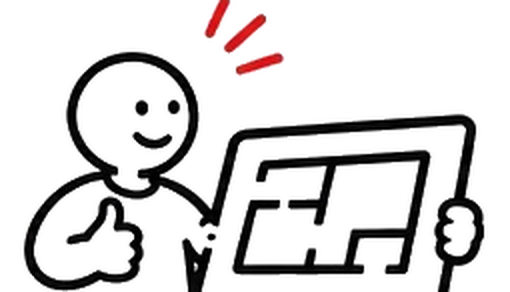
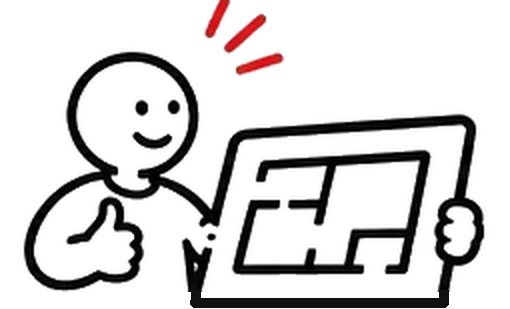
Draft: closed bottoms of figures, common baseline
Claude-Session: https://claude.ai/code/session_01EwRfVRwqpTJVtze869hkia

diff --git a/services/apartment-design/index.html b/services/apartment-design/index.html
@@ -55,9 +55,9 @@
   <div class="section-head"><p class="label"><span>Что вы получаете</span><span class="muted">Квартиры и апартаменты</span></p></div>
   <div class="grid">
     <h2 class="s-12">Идея, картинка или инструкция</h2>
-    <div class="s-4 gains pkg-card"><figure class="pkg-ill"><img src="../../assets/img/pkg/fig-idea.png" alt="" width="199" height="114" style="width:199px"></figure><h3 class="pkg-name">Идея</h3><p class="pkg-subt">Рисуем, как вы будете жить</p><p class="label pkg-meta">Простой · от 9,6 $/м² · от 1 до 2 недель</p><p class="pkg-count"><b>От 4 листов,</b><br>чтобы понять, как будет устроено ваше пространство</p><p class="pkg-tag">Минимальный набор</p><ul class="pkg-matrix"><li class="pkg-m"><img src="../../assets/img/pkg/i-plan.svg" alt="" width="34" height="34"><span>Планировка</span></li><li class="pkg-m"><img src="../../assets/img/pkg/i-ai.svg" alt="" width="34" height="34"><span>AI-эскиз</span></li><li class="pkg-m off"><img src="../../assets/img/pkg/i-3d.svg" alt="" width="34" height="34"><span>3D</span></li><li class="pkg-m off"><img src="../../assets/img/pkg/i-elev.svg" alt="" width="34" height="34"><span>Развёртки</span></li><li class="pkg-m off"><img src="../../assets/img/pkg/i-finish.svg" alt="" width="34" height="34"><span>Отделка</span></li><li class="pkg-m off"><img src="../../assets/img/pkg/i-elec.svg" alt="" width="34" height="34"><span>Электрика</span></li><li class="pkg-m off"><img src="../../assets/img/pkg/i-plumb.svg" alt="" width="34" height="34"><span>Сантехника</span></li><li class="pkg-m off"><img src="../../assets/img/pkg/i-furn.svg" alt="" width="34" height="34"><span>Подбор мебели</span></li></ul><ul class="pkg-list"><li>Обмерный план по вашим замерам или плану БТИ</li><li>До 2 вариантов планировочного решения с расстановкой мебели</li><li>AI-эскизы каждого помещения для поиска стиля и атмосферы</li><li>До 3 раундов правок</li></ul><p class="pkg-note muted">Подвинуть шкаф на полметра считается правкой, а не новой планировкой. Шкафы мы двигаем с удовольствием.</p><p class="pkg-btn"><a class="btn" href="../../index.html?pkg=Идея#brief" data-pkg="Идея">Выбрать «Идея» →</a></p></div>
-    <div class="s-4 gains pkg-card gains--featured" data-badge="Популярный"><figure class="pkg-ill"><img src="../../assets/img/pkg/fig-picture.png" alt="" width="231" height="110" style="width:231px"></figure><h3 class="pkg-name">Картинка</h3><p class="pkg-subt">Смотрим, как это будет выглядеть</p><p class="label pkg-meta">Базовый · от 14,7 $/м² · от 2 до 3 недель</p><p class="pkg-count"><b>От 15 листов,</b><br>чтобы увидеть будущий интерьер</p><p class="pkg-tag">Базовый комплект чертежей без инженерии</p><ul class="pkg-matrix"><li class="pkg-m"><img src="../../assets/img/pkg/i-plan.svg" alt="" width="34" height="34"><span>Планировка</span></li><li class="pkg-m"><img src="../../assets/img/pkg/i-ai.svg" alt="" width="34" height="34"><span>AI-эскиз</span></li><li class="pkg-m"><img src="../../assets/img/pkg/i-3d.svg" alt="" width="34" height="34"><span>3D</span></li><li class="pkg-m"><img src="../../assets/img/pkg/i-elev.svg" alt="" width="34" height="34"><span>Развёртки</span></li><li class="pkg-m off"><img src="../../assets/img/pkg/i-finish.svg" alt="" width="34" height="34"><span>Отделка</span></li><li class="pkg-m off"><img src="../../assets/img/pkg/i-elec.svg" alt="" width="34" height="34"><span>Электрика</span></li><li class="pkg-m off"><img src="../../assets/img/pkg/i-plumb.svg" alt="" width="34" height="34"><span>Сантехника</span></li><li class="pkg-m off"><img src="../../assets/img/pkg/i-furn.svg" alt="" width="34" height="34"><span>Подбор мебели</span></li></ul><ul class="pkg-list"><li>Всё, что входит в «Идею»</li><li>До 3 вариантов планировочного решения с расстановкой мебели</li><li>1 концепция интерьера</li><li>3D-визуализации всех помещений, по 2 ракурса на каждое</li><li>Развёртки стен без инженерных схем</li><li>До 3 раундов правок</li></ul><p class="pkg-btn"><a class="btn btn--signal" href="../../index.html?pkg=Картинка#brief" data-pkg="Картинка">Выбрать «Картинка» →</a></p></div>
-    <div class="s-4 gains pkg-card"><figure class="pkg-ill"><img src="../../assets/img/pkg/fig-instructions.png" alt="" width="303" height="109" style="width:303px"></figure><h3 class="pkg-name">Инструкция</h3><p class="pkg-subt">Передаём всё необходимое для реализации</p><p class="label pkg-meta">Полный · от 19,3 $/м² · от 4 до 5 недель</p><p class="pkg-count"><b>От 27 листов,</b><br>чтобы строить без догадок</p><p class="pkg-tag">Полный комплект документации для реализации</p><ul class="pkg-matrix"><li class="pkg-m"><img src="../../assets/img/pkg/i-plan.svg" alt="" width="34" height="34"><span>Планировка</span></li><li class="pkg-m"><img src="../../assets/img/pkg/i-ai.svg" alt="" width="34" height="34"><span>AI-эскиз</span></li><li class="pkg-m"><img src="../../assets/img/pkg/i-3d.svg" alt="" width="34" height="34"><span>3D</span></li><li class="pkg-m"><img src="../../assets/img/pkg/i-elev.svg" alt="" width="34" height="34"><span>Развёртки</span></li><li class="pkg-m"><img src="../../assets/img/pkg/i-finish.svg" alt="" width="34" height="34"><span>Отделка</span></li><li class="pkg-m"><img src="../../assets/img/pkg/i-elec.svg" alt="" width="34" height="34"><span>Электрика</span></li><li class="pkg-m"><img src="../../assets/img/pkg/i-plumb.svg" alt="" width="34" height="34"><span>Сантехника</span></li><li class="pkg-m"><img src="../../assets/img/pkg/i-furn.svg" alt="" width="34" height="34"><span>Подбор мебели</span></li></ul><ul class="pkg-list"><li>Всё, что входит в «Картинку»</li><li>До 5 вариантов планировочного решения</li><li>2 концепции интерьера</li><li>По 3 или 4 ракурса каждого помещения и панорамы 360°</li><li>Развёртки стен с привязками инженерии</li><li>Отделка, электрика, тёплый пол и сантехника</li><li>Ведомости дверных проёмов и лючков, разрез</li><li>Подбор материалов и мебели со спецификацией</li><li>До 5 раундов правок</li></ul><p class="pkg-note muted">Хотите больше вариантов? Сделаю их дополнительно, стоимость обсудим.</p><p class="pkg-btn"><a class="btn" href="../../index.html?pkg=Инструкция#brief" data-pkg="Инструкция">Выбрать «Инструкция» →</a></p></div>
+    <div class="s-4 gains pkg-card"><figure class="pkg-ill"><img src="../../assets/img/pkg/fig-idea.png" alt="" width="199" height="121" style="width:199px"></figure><h3 class="pkg-name">Идея</h3><p class="pkg-subt">Рисуем, как вы будете жить</p><p class="label pkg-meta">Простой · от 9,6 $/м² · от 1 до 2 недель</p><p class="pkg-count"><b>От 4 листов,</b><br>чтобы понять, как будет устроено ваше пространство</p><p class="pkg-tag">Минимальный набор</p><ul class="pkg-matrix"><li class="pkg-m"><img src="../../assets/img/pkg/i-plan.svg" alt="" width="34" height="34"><span>Планировка</span></li><li class="pkg-m"><img src="../../assets/img/pkg/i-ai.svg" alt="" width="34" height="34"><span>AI-эскиз</span></li><li class="pkg-m off"><img src="../../assets/img/pkg/i-3d.svg" alt="" width="34" height="34"><span>3D</span></li><li class="pkg-m off"><img src="../../assets/img/pkg/i-elev.svg" alt="" width="34" height="34"><span>Развёртки</span></li><li class="pkg-m off"><img src="../../assets/img/pkg/i-finish.svg" alt="" width="34" height="34"><span>Отделка</span></li><li class="pkg-m off"><img src="../../assets/img/pkg/i-elec.svg" alt="" width="34" height="34"><span>Электрика</span></li><li class="pkg-m off"><img src="../../assets/img/pkg/i-plumb.svg" alt="" width="34" height="34"><span>Сантехника</span></li><li class="pkg-m off"><img src="../../assets/img/pkg/i-furn.svg" alt="" width="34" height="34"><span>Подбор мебели</span></li></ul><ul class="pkg-list"><li>Обмерный план по вашим замерам или плану БТИ</li><li>До 2 вариантов планировочного решения с расстановкой мебели</li><li>AI-эскизы каждого помещения для поиска стиля и атмосферы</li><li>До 3 раундов правок</li></ul><p class="pkg-note muted">Подвинуть шкаф на полметра считается правкой, а не новой планировкой. Шкафы мы двигаем с удовольствием.</p><p class="pkg-btn"><a class="btn" href="../../index.html?pkg=Идея#brief" data-pkg="Идея">Выбрать «Идея» →</a></p></div>
+    <div class="s-4 gains pkg-card gains--featured" data-badge="Популярный"><figure class="pkg-ill"><img src="../../assets/img/pkg/fig-picture.png" alt="" width="231" height="116" style="width:231px"></figure><h3 class="pkg-name">Картинка</h3><p class="pkg-subt">Смотрим, как это будет выглядеть</p><p class="label pkg-meta">Базовый · от 14,7 $/м² · от 2 до 3 недель</p><p class="pkg-count"><b>От 15 листов,</b><br>чтобы увидеть будущий интерьер</p><p class="pkg-tag">Базовый комплект чертежей без инженерии</p><ul class="pkg-matrix"><li class="pkg-m"><img src="../../assets/img/pkg/i-plan.svg" alt="" width="34" height="34"><span>Планировка</span></li><li class="pkg-m"><img src="../../assets/img/pkg/i-ai.svg" alt="" width="34" height="34"><span>AI-эскиз</span></li><li class="pkg-m"><img src="../../assets/img/pkg/i-3d.svg" alt="" width="34" height="34"><span>3D</span></li><li class="pkg-m"><img src="../../assets/img/pkg/i-elev.svg" alt="" width="34" height="34"><span>Развёртки</span></li><li class="pkg-m off"><img src="../../assets/img/pkg/i-finish.svg" alt="" width="34" height="34"><span>Отделка</span></li><li class="pkg-m off"><img src="../../assets/img/pkg/i-elec.svg" alt="" width="34" height="34"><span>Электрика</span></li><li class="pkg-m off"><img src="../../assets/img/pkg/i-plumb.svg" alt="" width="34" height="34"><span>Сантехника</span></li><li class="pkg-m off"><img src="../../assets/img/pkg/i-furn.svg" alt="" width="34" height="34"><span>Подбор мебели</span></li></ul><ul class="pkg-list"><li>Всё, что входит в «Идею»</li><li>До 3 вариантов планировочного решения с расстановкой мебели</li><li>1 концепция интерьера</li><li>3D-визуализации всех помещений, по 2 ракурса на каждое</li><li>Развёртки стен без инженерных схем</li><li>До 3 раундов правок</li></ul><p class="pkg-btn"><a class="btn btn--signal" href="../../index.html?pkg=Картинка#brief" data-pkg="Картинка">Выбрать «Картинка» →</a></p></div>
+    <div class="s-4 gains pkg-card"><figure class="pkg-ill"><img src="../../assets/img/pkg/fig-instructions.png" alt="" width="303" height="110" style="width:303px"></figure><h3 class="pkg-name">Инструкция</h3><p class="pkg-subt">Передаём всё необходимое для реализации</p><p class="label pkg-meta">Полный · от 19,3 $/м² · от 4 до 5 недель</p><p class="pkg-count"><b>От 27 листов,</b><br>чтобы строить без догадок</p><p class="pkg-tag">Полный комплект документации для реализации</p><ul class="pkg-matrix"><li class="pkg-m"><img src="../../assets/img/pkg/i-plan.svg" alt="" width="34" height="34"><span>Планировка</span></li><li class="pkg-m"><img src="../../assets/img/pkg/i-ai.svg" alt="" width="34" height="34"><span>AI-эскиз</span></li><li class="pkg-m"><img src="../../assets/img/pkg/i-3d.svg" alt="" width="34" height="34"><span>3D</span></li><li class="pkg-m"><img src="../../assets/img/pkg/i-elev.svg" alt="" width="34" height="34"><span>Развёртки</span></li><li class="pkg-m"><img src="../../assets/img/pkg/i-finish.svg" alt="" width="34" height="34"><span>Отделка</span></li><li class="pkg-m"><img src="../../assets/img/pkg/i-elec.svg" alt="" width="34" height="34"><span>Электрика</span></li><li class="pkg-m"><img src="../../assets/img/pkg/i-plumb.svg" alt="" width="34" height="34"><span>Сантехника</span></li><li class="pkg-m"><img src="../../assets/img/pkg/i-furn.svg" alt="" width="34" height="34"><span>Подбор мебели</span></li></ul><ul class="pkg-list"><li>Всё, что входит в «Картинку»</li><li>До 5 вариантов планировочного решения</li><li>2 концепции интерьера</li><li>По 3 или 4 ракурса каждого помещения и панорамы 360°</li><li>Развёртки стен с привязками инженерии</li><li>Отделка, электрика, тёплый пол и сантехника</li><li>Ведомости дверных проёмов и лючков, разрез</li><li>Подбор материалов и мебели со спецификацией</li><li>До 5 раундов правок</li></ul><p class="pkg-note muted">Хотите больше вариантов? Сделаю их дополнительно, стоимость обсудим.</p><p class="pkg-btn"><a class="btn" href="../../index.html?pkg=Инструкция#brief" data-pkg="Инструкция">Выбрать «Инструкция» →</a></p></div>
     <p class="s-12 muted">Цена ниже рынка, потому что рутину считает BIM-модель, а не человек. Все листы собираются из одной модели, поэтому размеры сходятся.</p>
     <div class="s-12 pkg-wrap"><p class="label">Что входит в каждый пакет</p><table class="pkg">
 <thead><tr><th>Блок работ</th><th class="c">Идея<small>простой</small></th><th class="c f">Картинка<small>базовый</small></th><th class="c">Инструкция<small>полный</small></th></tr></thead>

diff --git a/en/services/apartment-design/index.html b/en/services/apartment-design/index.html
@@ -55,9 +55,9 @@
   <div class="section-head"><p class="label"><span>What you get</span><span class="muted">Apartments</span></p></div>
   <div class="grid">
     <h2 class="s-12">Idea, Picture or Instructions</h2>
-    <div class="s-4 gains pkg-card"><figure class="pkg-ill"><img src="../../../assets/img/pkg/fig-idea.png" alt="" width="199" height="114" style="width:199px"></figure><h3 class="pkg-name">Idea</h3><p class="pkg-subt">We sketch how you will live</p><p class="label pkg-meta">Basic · from $9.6/m² · 1 to 2 weeks</p><p class="pkg-count"><b>From 4 sheets,</b><br>to understand how your space will work</p><p class="pkg-tag">Minimal set</p><ul class="pkg-matrix"><li class="pkg-m"><img src="../../../assets/img/pkg/i-plan.svg" alt="" width="34" height="34"><span>Layout</span></li><li class="pkg-m"><img src="../../../assets/img/pkg/i-ai.svg" alt="" width="34" height="34"><span>AI sketch</span></li><li class="pkg-m off"><img src="../../../assets/img/pkg/i-3d.svg" alt="" width="34" height="34"><span>3D</span></li><li class="pkg-m off"><img src="../../../assets/img/pkg/i-elev.svg" alt="" width="34" height="34"><span>Elevations</span></li><li class="pkg-m off"><img src="../../../assets/img/pkg/i-finish.svg" alt="" width="34" height="34"><span>Finishes</span></li><li class="pkg-m off"><img src="../../../assets/img/pkg/i-elec.svg" alt="" width="34" height="34"><span>Electrical</span></li><li class="pkg-m off"><img src="../../../assets/img/pkg/i-plumb.svg" alt="" width="34" height="34"><span>Plumbing</span></li><li class="pkg-m off"><img src="../../../assets/img/pkg/i-furn.svg" alt="" width="34" height="34"><span>Furniture</span></li></ul><ul class="pkg-list"><li>Measured plan from your measurements or the BTI plan</li><li>Up to 2 layout options with furniture arrangement</li><li>AI sketches of every room to find the style and mood</li><li>Up to 3 rounds of revisions</li></ul><p class="pkg-note muted">Moving a wardrobe half a metre is a revision, not a new layout. We are always happy to move wardrobes.</p><p class="pkg-btn"><a class="btn" href="../../index.html?pkg=Idea#brief" data-pkg="Idea">Choose Idea →</a></p></div>
-    <div class="s-4 gains pkg-card gains--featured" data-badge="Popular"><figure class="pkg-ill"><img src="../../../assets/img/pkg/fig-picture.png" alt="" width="231" height="110" style="width:231px"></figure><h3 class="pkg-name">Picture</h3><p class="pkg-subt">We see how it will look</p><p class="label pkg-meta">Standard · from $14.7/m² · 2 to 3 weeks</p><p class="pkg-count"><b>From 15 sheets,</b><br>to see your future interior</p><p class="pkg-tag">Basic drawing set without engineering</p><ul class="pkg-matrix"><li class="pkg-m"><img src="../../../assets/img/pkg/i-plan.svg" alt="" width="34" height="34"><span>Layout</span></li><li class="pkg-m"><img src="../../../assets/img/pkg/i-ai.svg" alt="" width="34" height="34"><span>AI sketch</span></li><li class="pkg-m"><img src="../../../assets/img/pkg/i-3d.svg" alt="" width="34" height="34"><span>3D</span></li><li class="pkg-m"><img src="../../../assets/img/pkg/i-elev.svg" alt="" width="34" height="34"><span>Elevations</span></li><li class="pkg-m off"><img src="../../../assets/img/pkg/i-finish.svg" alt="" width="34" height="34"><span>Finishes</span></li><li class="pkg-m off"><img src="../../../assets/img/pkg/i-elec.svg" alt="" width="34" height="34"><span>Electrical</span></li><li class="pkg-m off"><img src="../../../assets/img/pkg/i-plumb.svg" alt="" width="34" height="34"><span>Plumbing</span></li><li class="pkg-m off"><img src="../../../assets/img/pkg/i-furn.svg" alt="" width="34" height="34"><span>Furniture</span></li></ul><ul class="pkg-list"><li>Everything in Idea</li><li>Up to 3 layout options with furniture arrangement</li><li>1 interior concept</li><li>3D visualisations of every room, 2 views each</li><li>Wall elevations without engineering</li><li>Up to 3 rounds of revisions</li></ul><p class="pkg-btn"><a class="btn btn--signal" href="../../index.html?pkg=Picture#brief" data-pkg="Picture">Choose Picture →</a></p></div>
-    <div class="s-4 gains pkg-card"><figure class="pkg-ill"><img src="../../../assets/img/pkg/fig-instructions.png" alt="" width="303" height="109" style="width:303px"></figure><h3 class="pkg-name">Instructions</h3><p class="pkg-subt">We hand over everything needed to build</p><p class="label pkg-meta">Full · from $19.3/m² · 4 to 5 weeks</p><p class="pkg-count"><b>From 27 sheets,</b><br>to build without guesswork</p><p class="pkg-tag">Complete documentation for the build</p><ul class="pkg-matrix"><li class="pkg-m"><img src="../../../assets/img/pkg/i-plan.svg" alt="" width="34" height="34"><span>Layout</span></li><li class="pkg-m"><img src="../../../assets/img/pkg/i-ai.svg" alt="" width="34" height="34"><span>AI sketch</span></li><li class="pkg-m"><img src="../../../assets/img/pkg/i-3d.svg" alt="" width="34" height="34"><span>3D</span></li><li class="pkg-m"><img src="../../../assets/img/pkg/i-elev.svg" alt="" width="34" height="34"><span>Elevations</span></li><li class="pkg-m"><img src="../../../assets/img/pkg/i-finish.svg" alt="" width="34" height="34"><span>Finishes</span></li><li class="pkg-m"><img src="../../../assets/img/pkg/i-elec.svg" alt="" width="34" height="34"><span>Electrical</span></li><li class="pkg-m"><img src="../../../assets/img/pkg/i-plumb.svg" alt="" width="34" height="34"><span>Plumbing</span></li><li class="pkg-m"><img src="../../../assets/img/pkg/i-furn.svg" alt="" width="34" height="34"><span>Furniture</span></li></ul><ul class="pkg-list"><li>Everything in Picture</li><li>Up to 5 layout options</li><li>2 interior concepts</li><li>3 or 4 views of every room and 360° panoramas</li><li>Wall elevations with engineering setting-out</li><li>Finishes, electrical, underfloor heating and plumbing</li><li>Door opening and access hatch schedules, section</li><li>Selection of materials and furniture with a specification</li><li>Up to 5 rounds of revisions</li></ul><p class="pkg-note muted">Need more options? I will make them separately, we will agree on the cost.</p><p class="pkg-btn"><a class="btn" href="../../index.html?pkg=Instructions#brief" data-pkg="Instructions">Choose Instructions →</a></p></div>
+    <div class="s-4 gains pkg-card"><figure class="pkg-ill"><img src="../../../assets/img/pkg/fig-idea.png" alt="" width="199" height="121" style="width:199px"></figure><h3 class="pkg-name">Idea</h3><p class="pkg-subt">We sketch how you will live</p><p class="label pkg-meta">Basic · from $9.6/m² · 1 to 2 weeks</p><p class="pkg-count"><b>From 4 sheets,</b><br>to understand how your space will work</p><p class="pkg-tag">Minimal set</p><ul class="pkg-matrix"><li class="pkg-m"><img src="../../../assets/img/pkg/i-plan.svg" alt="" width="34" height="34"><span>Layout</span></li><li class="pkg-m"><img src="../../../assets/img/pkg/i-ai.svg" alt="" width="34" height="34"><span>AI sketch</span></li><li class="pkg-m off"><img src="../../../assets/img/pkg/i-3d.svg" alt="" width="34" height="34"><span>3D</span></li><li class="pkg-m off"><img src="../../../assets/img/pkg/i-elev.svg" alt="" width="34" height="34"><span>Elevations</span></li><li class="pkg-m off"><img src="../../../assets/img/pkg/i-finish.svg" alt="" width="34" height="34"><span>Finishes</span></li><li class="pkg-m off"><img src="../../../assets/img/pkg/i-elec.svg" alt="" width="34" height="34"><span>Electrical</span></li><li class="pkg-m off"><img src="../../../assets/img/pkg/i-plumb.svg" alt="" width="34" height="34"><span>Plumbing</span></li><li class="pkg-m off"><img src="../../../assets/img/pkg/i-furn.svg" alt="" width="34" height="34"><span>Furniture</span></li></ul><ul class="pkg-list"><li>Measured plan from your measurements or the BTI plan</li><li>Up to 2 layout options with furniture arrangement</li><li>AI sketches of every room to find the style and mood</li><li>Up to 3 rounds of revisions</li></ul><p class="pkg-note muted">Moving a wardrobe half a metre is a revision, not a new layout. We are always happy to move wardrobes.</p><p class="pkg-btn"><a class="btn" href="../../index.html?pkg=Idea#brief" data-pkg="Idea">Choose Idea →</a></p></div>
+    <div class="s-4 gains pkg-card gains--featured" data-badge="Popular"><figure class="pkg-ill"><img src="../../../assets/img/pkg/fig-picture.png" alt="" width="231" height="116" style="width:231px"></figure><h3 class="pkg-name">Picture</h3><p class="pkg-subt">We see how it will look</p><p class="label pkg-meta">Standard · from $14.7/m² · 2 to 3 weeks</p><p class="pkg-count"><b>From 15 sheets,</b><br>to see your future interior</p><p class="pkg-tag">Basic drawing set without engineering</p><ul class="pkg-matrix"><li class="pkg-m"><img src="../../../assets/img/pkg/i-plan.svg" alt="" width="34" height="34"><span>Layout</span></li><li class="pkg-m"><img src="../../../assets/img/pkg/i-ai.svg" alt="" width="34" height="34"><span>AI sketch</span></li><li class="pkg-m"><img src="../../../assets/img/pkg/i-3d.svg" alt="" width="34" height="34"><span>3D</span></li><li class="pkg-m"><img src="../../../assets/img/pkg/i-elev.svg" alt="" width="34" height="34"><span>Elevations</span></li><li class="pkg-m off"><img src="../../../assets/img/pkg/i-finish.svg" alt="" width="34" height="34"><span>Finishes</span></li><li class="pkg-m off"><img src="../../../assets/img/pkg/i-elec.svg" alt="" width="34" height="34"><span>Electrical</span></li><li class="pkg-m off"><img src="../../../assets/img/pkg/i-plumb.svg" alt="" width="34" height="34"><span>Plumbing</span></li><li class="pkg-m off"><img src="../../../assets/img/pkg/i-furn.svg" alt="" width="34" height="34"><span>Furniture</span></li></ul><ul class="pkg-list"><li>Everything in Idea</li><li>Up to 3 layout options with furniture arrangement</li><li>1 interior concept</li><li>3D visualisations of every room, 2 views each</li><li>Wall elevations without engineering</li><li>Up to 3 rounds of revisions</li></ul><p class="pkg-btn"><a class="btn btn--signal" href="../../index.html?pkg=Picture#brief" data-pkg="Picture">Choose Picture →</a></p></div>
+    <div class="s-4 gains pkg-card"><figure class="pkg-ill"><img src="../../../assets/img/pkg/fig-instructions.png" alt="" width="303" height="110" style="width:303px"></figure><h3 class="pkg-name">Instructions</h3><p class="pkg-subt">We hand over everything needed to build</p><p class="label pkg-meta">Full · from $19.3/m² · 4 to 5 weeks</p><p class="pkg-count"><b>From 27 sheets,</b><br>to build without guesswork</p><p class="pkg-tag">Complete documentation for the build</p><ul class="pkg-matrix"><li class="pkg-m"><img src="../../../assets/img/pkg/i-plan.svg" alt="" width="34" height="34"><span>Layout</span></li><li class="pkg-m"><img src="../../../assets/img/pkg/i-ai.svg" alt="" width="34" height="34"><span>AI sketch</span></li><li class="pkg-m"><img src="../../../assets/img/pkg/i-3d.svg" alt="" width="34" height="34"><span>3D</span></li><li class="pkg-m"><img src="../../../assets/img/pkg/i-elev.svg" alt="" width="34" height="34"><span>Elevations</span></li><li class="pkg-m"><img src="../../../assets/img/pkg/i-finish.svg" alt="" width="34" height="34"><span>Finishes</span></li><li class="pkg-m"><img src="../../../assets/img/pkg/i-elec.svg" alt="" width="34" height="34"><span>Electrical</span></li><li class="pkg-m"><img src="../../../assets/img/pkg/i-plumb.svg" alt="" width="34" height="34"><span>Plumbing</span></li><li class="pkg-m"><img src="../../../assets/img/pkg/i-furn.svg" alt="" width="34" height="34"><span>Furniture</span></li></ul><ul class="pkg-list"><li>Everything in Picture</li><li>Up to 5 layout options</li><li>2 interior concepts</li><li>3 or 4 views of every room and 360° panoramas</li><li>Wall elevations with engineering setting-out</li><li>Finishes, electrical, underfloor heating and plumbing</li><li>Door opening and access hatch schedules, section</li><li>Selection of materials and furniture with a specification</li><li>Up to 5 rounds of revisions</li></ul><p class="pkg-note muted">Need more options? I will make them separately, we will agree on the cost.</p><p class="pkg-btn"><a class="btn" href="../../index.html?pkg=Instructions#brief" data-pkg="Instructions">Choose Instructions →</a></p></div>
     <p class="s-12 muted">The price is below market because the routine is calculated by the BIM model, not by hand. All sheets come from one model, so dimensions always match.</p>
     <div class="s-12 pkg-wrap"><p class="label">What each package includes</p><table class="pkg">
 <thead><tr><th>Scope</th><th class="c">Idea<small>basic</small></th><th class="c f">Picture<small>standard</small></th><th class="c">Instructions<small>full</small></th></tr></thead>
